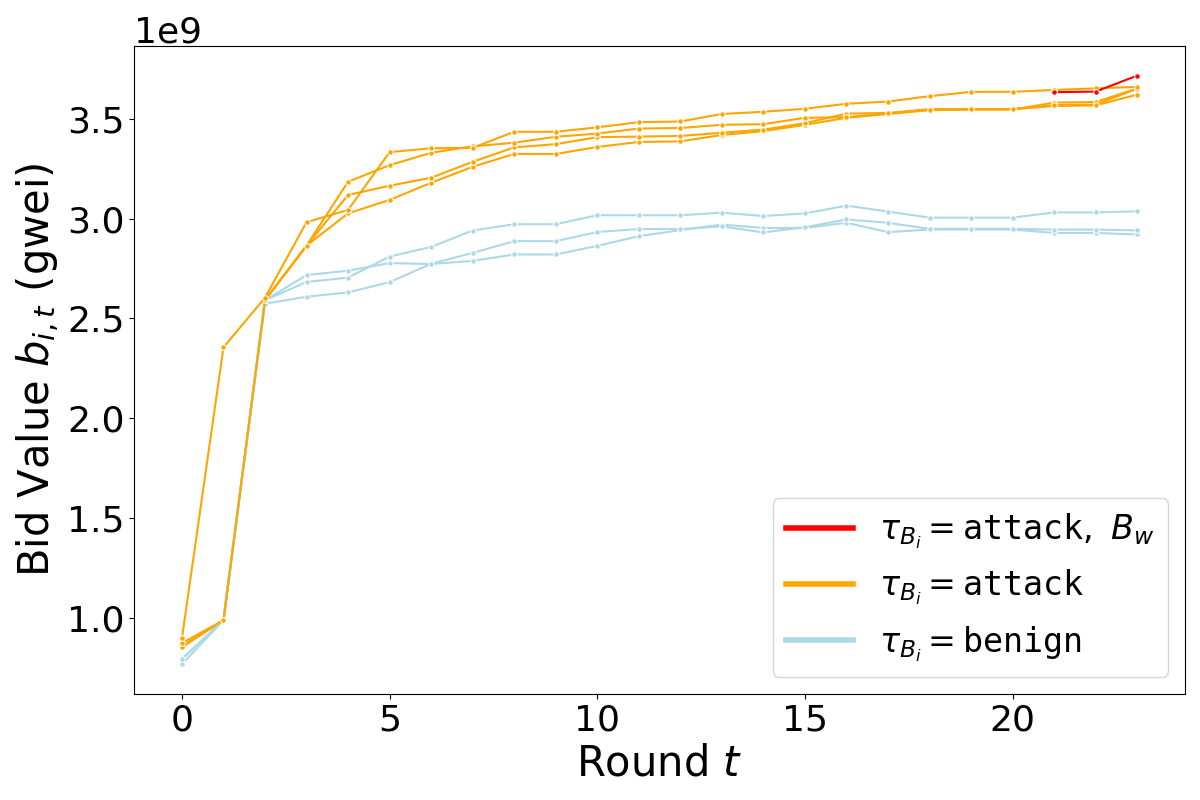
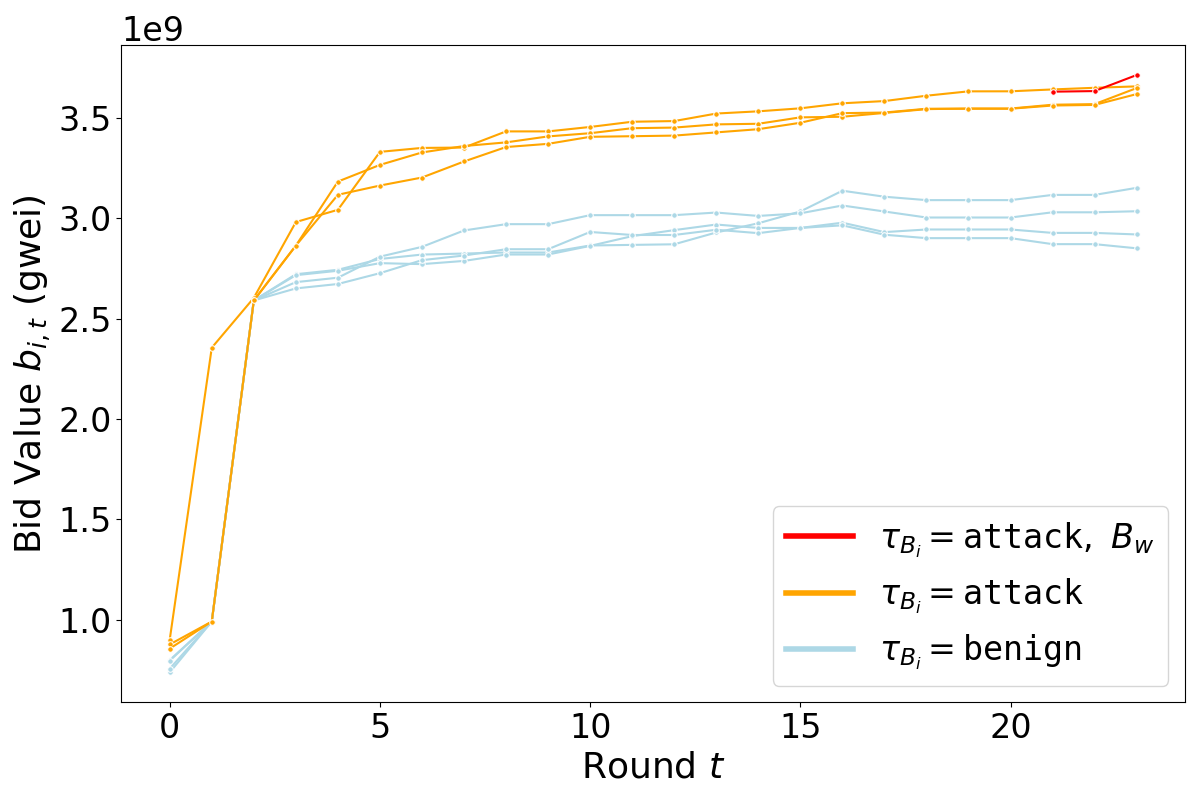
smaller font

diff --git a/plots/ss/bidding_dynamic.py b/plots/ss/bidding_dynamic.py
@@ -76,10 +76,10 @@ def plot_bid_dynamics(file_path, block_number):
     legend_handles = [plt.Line2D([0], [0], color=color, lw=4, label=label) for label, color in legend_labels.items()]
     plt.legend(handles=legend_handles, loc="lower right", fontsize=24)
 
-    plt.xlabel(r"Round $t$", fontsize=30)
-    plt.ylabel('Bid Value $b_{i,t}$ (gwei)', fontsize=30)
-    plt.tick_params(axis='both', which='major', labelsize=26)
-    plt.gca().yaxis.get_offset_text().set_fontsize(26)
+    plt.xlabel(r"Round $t$", fontsize=26)
+    plt.ylabel('Bid Value $b_{i,t}$ (gwei)', fontsize=26)
+    plt.tick_params(axis='both', which='major', labelsize=24)
+    plt.gca().yaxis.get_offset_text().set_fontsize(24)
     plt.tight_layout()
     plt.savefig(output_figure_path)
     plt.show()
@@ -196,10 +196,10 @@ def plot_block_value_dynamics(file_path, block_number):
     legend_handles = [plt.Line2D([0], [0], color=color, lw=4, label=label) for label, color in legend_labels.items()]
     plt.legend(handles=legend_handles, loc="lower right", fontsize=24)
 
-    plt.xlabel(r"Round $t$", fontsize=30)
-    plt.ylabel('Block Value $v_{i,t}$ (gwei)', fontsize=30)
-    plt.tick_params(axis='both', which='major', labelsize=26)
-    plt.gca().yaxis.get_offset_text().set_fontsize(26)
+    plt.xlabel(r"Round $t$", fontsize=26)
+    plt.ylabel('Block Value $v_{i,t}$ (gwei)', fontsize=26)
+    plt.tick_params(axis='both', which='major', labelsize=24)
+    plt.gca().yaxis.get_offset_text().set_fontsize(24)
     plt.tight_layout()
     plt.savefig(output_figure_path)
     plt.show()
